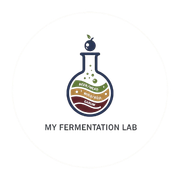
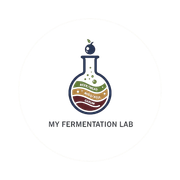
Agrandir les icônes PWA pour une meilleure visibilité
Amélioration du rendu des icônes dans les raccourcis iPhone en :
- Supprimant les espaces blancs autour du logo avec trim()
- Redimensionnant le logo à 80% de la taille de l'icône
- Ajoutant un padding contrôlé de 10% pour un meilleur rendu
- Mise à jour de la version du cache (?v=3) pour forcer le rechargement

🤖 Generated with [Claude Code](https://claude.com/claude-code)

Changed region(s): [[0.25, 0.1944, 0.7778, 0.75]]

diff --git a/scripts/generate-icons.js b/scripts/generate-icons.js
@@ -17,10 +17,27 @@ const sizes = [
 ];
 
 async function generateIcons() {
+  // First, trim the image to remove whitespace
+  const trimmedImage = await sharp(iconBuffer)
+    .trim()
+    .toBuffer();
+
+  // Then resize with padding for better appearance
   for (const { size, name } of sizes) {
-    await sharp(iconBuffer)
-      .resize(size, size, {
+    // Calculate padding (10% of size)
+    const padding = Math.floor(size * 0.1);
+    const contentSize = size - (padding * 2);
+
+    await sharp(trimmedImage)
+      .resize(contentSize, contentSize, {
         fit: 'contain',
+        background: { r: 255, g: 255, b: 255, alpha: 0 }
+      })
+      .extend({
+        top: padding,
+        bottom: padding,
+        left: padding,
+        right: padding,
         background: { r: 255, g: 255, b: 255, alpha: 0 }
       })
       .png()

diff --git a/index.html b/index.html
@@ -12,9 +12,9 @@
     <meta name="apple-mobile-web-app-title" content="MyFermentLab" />
 
     <!-- Icons -->
-    <link rel="icon" type="image/png" sizes="192x192" href="/icon-192.png?v=2" />
-    <link rel="apple-touch-icon" href="/apple-touch-icon.png?v=2" />
-    <link rel="manifest" href="/manifest.json?v=2" />
+    <link rel="icon" type="image/png" sizes="192x192" href="/icon-192.png?v=3" />
+    <link rel="apple-touch-icon" href="/apple-touch-icon.png?v=3" />
+    <link rel="manifest" href="/manifest.json?v=3" />
   </head>
   <body>
     <div id="root"></div>
